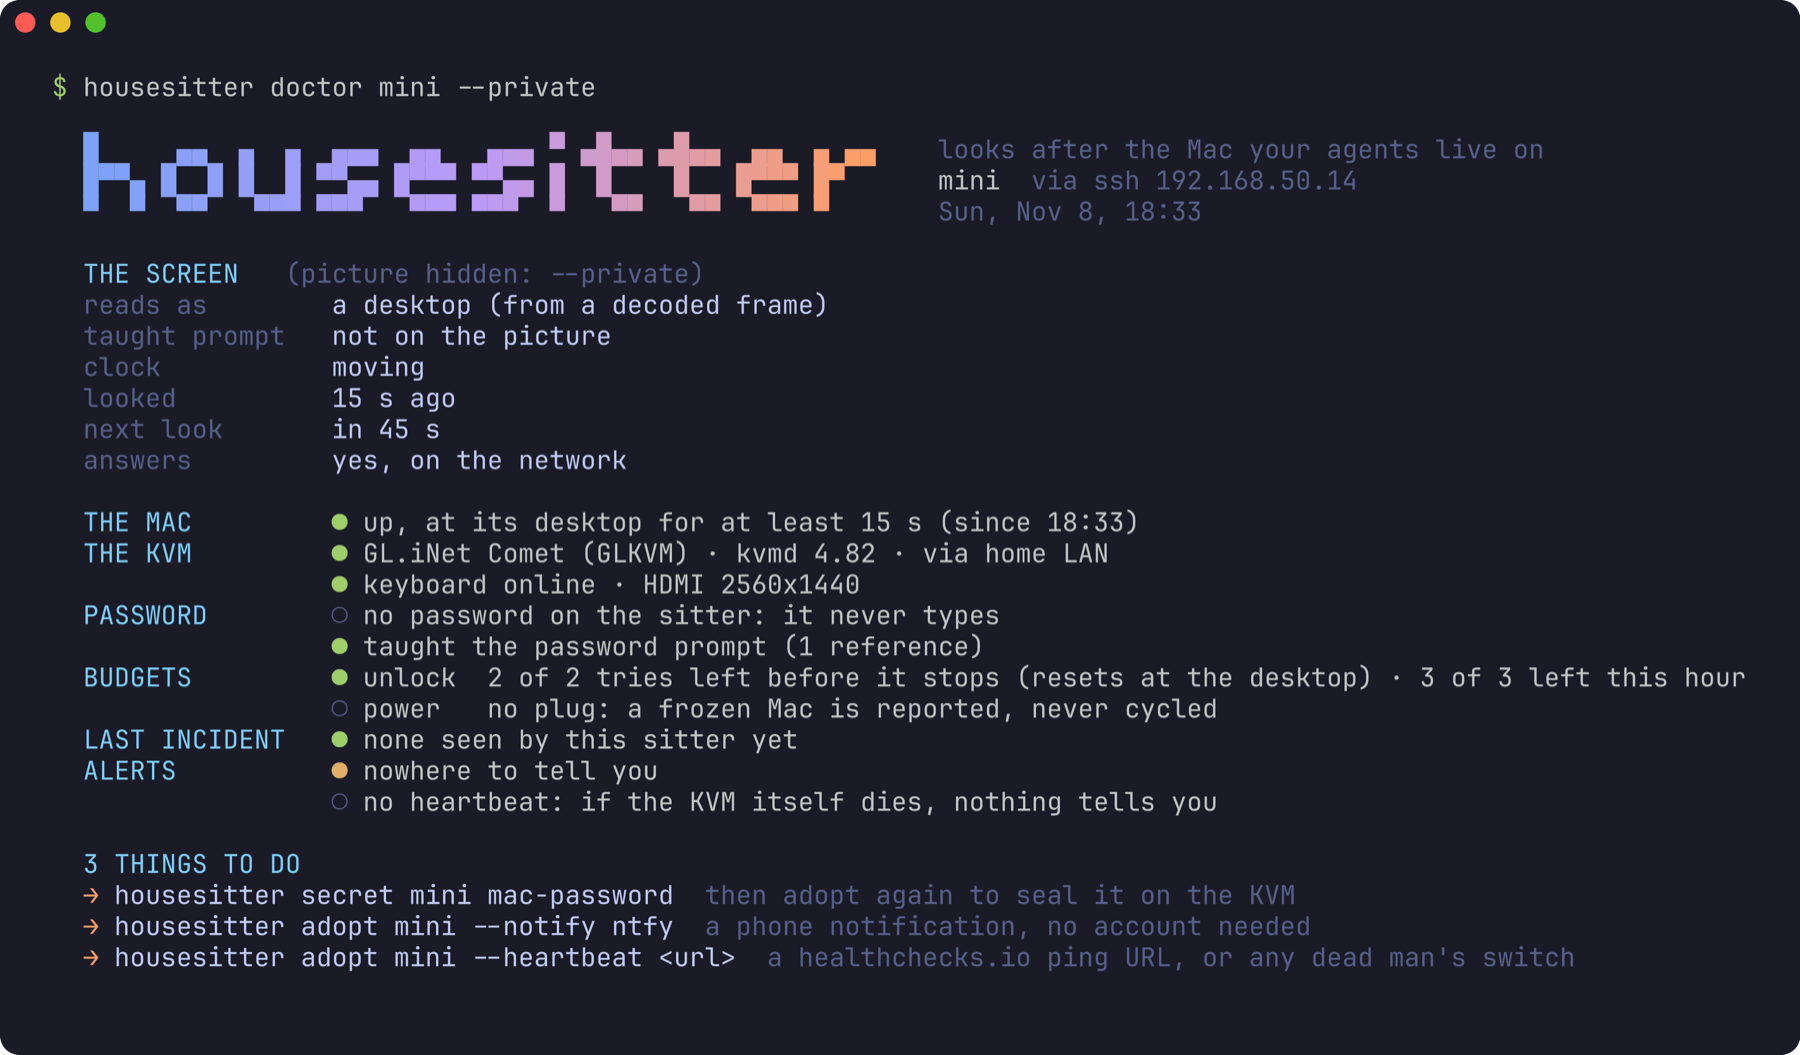
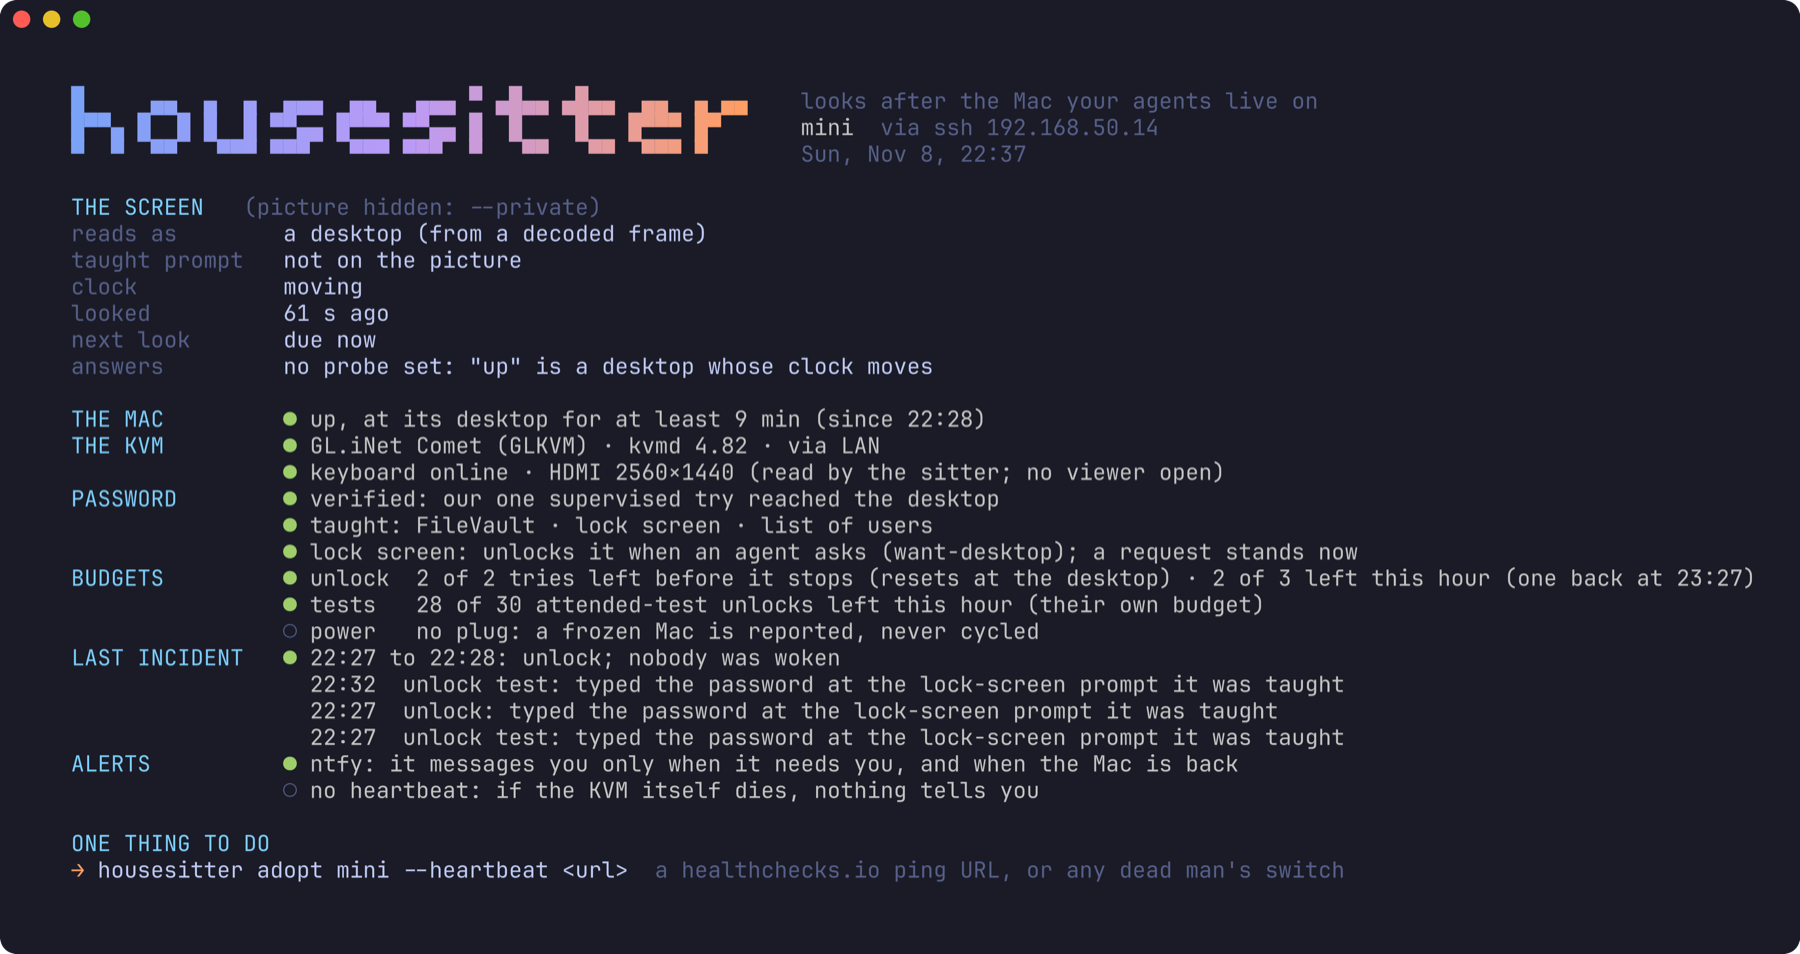
A real doctor from the sitter that did the unlock (22:37, 0.2 on the Comet); the live lock-screen and list-of-users results; doctor trims ledger lines at a word

Changed region(s): [[0.0311, 0.0608, 0.9022, 0.9423], [0.9022, 0.5776, 0.9644, 0.6688], [0.0, 0.0, 0.0622, 0.0304]]

diff --git a/README.md b/README.md
@@ -33,9 +33,9 @@ So housesitter types only where it sees the password prompt on its own picture, 
 
 ## housesitter doctor
 
-<p align="center"><img src="docs/img/doctor.png" alt="housesitter doctor mini --private, with the gradient pixel wordmark. The screen reads as a desktop from a decoded frame, the taught prompt not on the picture, the clock moving, looked 15 seconds ago, next look in 45 seconds, the Mac answering. The Mac is up. The KVM is a GL.iNet Comet on kvmd 4.82 over the home LAN, keyboard online, HDMI 2560x1440. No password on this sitter, so it never types; the prompt is taught. 2 of 2 tries left before it stops, 3 of 3 this hour; no plug, so a frozen Mac is reported, never cycled. No incident seen by this sitter. Nowhere to tell you, and no heartbeat. Three things to do." width="100%"></p>
+<p align="center"><img src="docs/img/doctor.png" alt="housesitter doctor mini --private, a real run at 22:37 on 8 November against our mini and its Comet, with the gradient pixel wordmark. The picture is hidden; it reads as a desktop from a decoded frame, the taught prompt not on the picture, the clock moving, no probe set, so up is a desktop whose clock moves. The Mac is up at its desktop since 22:28. The KVM is a GL.iNet Comet on kvmd 4.82 over the LAN, keyboard online, HDMI 2560 by 1440 read by the sitter with no viewer open. The password is verified; it has been taught FileVault, the lock screen and the list of users; the lock screen is unlocked when an agent asks, and a request stands now. Budgets: 2 of 2 tries left before it stops, 2 of 3 this hour; 28 of 30 attended-test unlocks; no plug, so a frozen Mac is reported, never cycled. Last incident 22:27 to 22:28, an unlock, nobody woken, and three unlocks at the lock-screen prompt it was taught. Alerts go to ntfy; no heartbeat. One thing to do: add a heartbeat." width="100%"></p>
 
-*The data of a real `housesitter doctor` run against our mini and its Comet at 18:33 on 8 November, before housesitter's sitter took over the KVM, drawn with `--private` so my desktop stays out. That sitter ran watch-only from a scratch folder, so it truthfully had no password and nowhere to tell us: its three things to do.*
+*The real `housesitter doctor` of our mini and its Comet at 22:37 on 8 November, an hour after the hands-off restart, drawn with `--private` so my desktop stays out. Its last incident is our own lock-screen test: an agent asked for the desktop, and it unlocked.*
 
 One screen: a glimpse of what the KVM sees (40 by 22 pixels of its own picture, too small to read anything on), what that reads as, when it last looked and when it looks next; the Mac; the KVM; the password gate; what's left of each budget; the last bad stretch; where it tells you; and the command for anything missing. It exits 3 when it can't reach the KVM or the sitter.
 
@@ -90,7 +90,7 @@ Then teach it your FileVault screen and arm it, once, while you watch (about ten
 5. **At the FileVault screen, teach it once.** The sitter sees a screen it hasn't been taught, so it waits and tells you. When `housesitter look studio` shows the password field, run `housesitter learn-prompt studio --i-see-the-field --filevault`. It keeps the bright pixels that stay put across three frames (on our mini, the avatar and the name), so a moving wallpaper drops out. `--filevault` is accepted only within 15 minutes of a boot the sitter saw, never for a screen that matches its lock-screen lesson, and it is the only lesson it types at by itself.
 6. **Watch it type.** Within seconds it types its one armed try at the prompt it now knows.
 
-You're done when the proof ends at your desktop and `housesitter doctor studio` says the password is verified. If that try doesn't reach the desktop, the password goes back to unverified and nothing more is typed. Until then the sitter only watches and tells you. Want `housesitter unlock studio` to work at your lock screen too? Lock the Mac and teach that screen the same way, without `--filevault`; a lock-screen lesson never counts as a boot, and by default the GitHub outbox can't use it. The login window's list of users is taught with your account's tile: `housesitter learn-prompt studio --i-see-the-field --grid 0.48 0.87`.
+You're done when the proof ends at your desktop and `housesitter doctor studio` says the password is verified. If that try doesn't reach the desktop, the password goes back to unverified and nothing more is typed. Until then the sitter only watches and tells you. Want `housesitter unlock studio` to work at your lock screen too? Lock the Mac and teach that screen the same way, without `--filevault`; a lock-screen lesson never counts as a boot, and by default the GitHub outbox can't use it. The login window's list of users is taught with your account's tile: `housesitter learn-prompt studio --i-see-the-field --grid 0.48 0.87`. On our mini the login window opens on the single-user form; the list appears after one Escape, pressed by you while you teach it (the sitter itself never presses Escape).
 
 ## What it handles
 
@@ -184,9 +184,9 @@ housesitter is experimental (0.2). Honest status, as of 9 November 2026. "Our wa
 
 | Part | Status |
 | --- | --- |
-| FileVault unlock after a restart | **Done on real hardware, hands-off, by housesitter's own sitter** ([#11](https://github.com/ourostack/housesitter/issues/11)). Mac mini (M5 Pro) on macOS 27.2 and a GL.iNet Comet (kvmd 4.82) at 2560×1440. First restart, supervised: it refused the screen it hadn't been taught, we taught it the FileVault screen once (`learn-prompt --filevault`), it typed its one trial try, and the desktop came back, so the password was verified. Second restart, 8 November 21:32 PT (05:32 UTC on the 9th): the only touch was Restart. It saw the boot, recognised the FileVault prompt, waited out its 20 s settle, typed once, and the desktop was back **79 s after Restart** (the KVM's frames put Restart between 21:32:21 and 21:32:24, so 78-81 s). The KVM stayed up throughout ([recording](docs/img/restart.gif), [its frames and the sitter's own log](docs/proof/2026-11-09/)). Both runs were housesitter 0.1 (`8ccd065`); 0.2 is being deployed and re-run |
+| FileVault unlock after a restart | **Done on real hardware, hands-off, by housesitter's own sitter** ([#11](https://github.com/ourostack/housesitter/issues/11)). Mac mini (M5 Pro) on macOS 27.2 and a GL.iNet Comet (kvmd 4.82) at 2560×1440. First restart, supervised: it refused the screen it hadn't been taught, we taught it the FileVault screen once (`learn-prompt --filevault`), it typed its one trial try, and the desktop came back, so the password was verified. Second restart, 8 November 21:32 PT (05:32 UTC on the 9th): the only touch was Restart. It saw the boot, recognised the FileVault prompt, waited out its 20 s settle, typed once, and the desktop was back **79 s after Restart** (the KVM's frames put Restart between 21:32:21 and 21:32:24, so 78-81 s). The KVM stayed up throughout ([recording](docs/img/restart.gif), [its frames and the sitter's own log](docs/proof/2026-11-09/)). Both runs were housesitter 0.1 (`8ccd065`); a hands-off restart on 0.2 is next |
 | Messages to your phone | **Tested with fakes only.** Our own install sends to ntfy; no real refusal has messaged us from housesitter's sitter yet |
-| Unlocking a lock screen when an agent needs the UI | **Done on real hardware by our watchdog: 20 of 20 cycles**, from the lock screen (median 14.4 s), a sleeping display (15.6 s), the login window's list of users, clicking the account's tile (20.8 s), and its single-user form (19.7 s). Ported to housesitter's sitter (`unlock_lock_screen`, `want-desktop`, list-of-users lessons) and tested on those real frames; housesitter's own run on the Comet is next |
+| Unlocking a lock screen when an agent needs the UI | **Done on real hardware by our watchdog: 20 of 20 cycles**, from the lock screen (median 14.4 s), a sleeping display (15.6 s), the login window's list of users, clicking the account's tile (20.8 s), and its single-user form (19.7 s). **And by housesitter 0.2 on the same Comet**, 8 November around 22:30 PT: from the list of users (it clicked the tile, then typed) in 16 s, and `want-desktop` from the lock screen in 9 s; the Mac's own lock flag read unlocked after each |
 | Refusing to type blind | **Real frames, replayed**: the KVM's frames from that morning read as "no password field", so the sitter refuses and tells you (`housesitter demo`) |
 | Learning the prompt without OCR | **Real frames, in tests**: taught at the FileVault screen of that restart, it matches every FileVault frame at 100% and the lock screen, a desktop and the morning's no-field wallpaper at under 10%. Taught at the lock screen, it matches the lock screen at 100% and 93% with an aerial wallpaper moving, and FileVault not at all, which is why setup teaches it at FileVault. Taught at the list of users, it matches every list-of-users frame and none of the lock-screen or login-window frames |
 | `doctor`, `look`, `status` | **Run on real hardware**, read-only, against our Comet. That run found a real bug (pinned TLS failing when requests ran in parallel), now fixed with a test |
